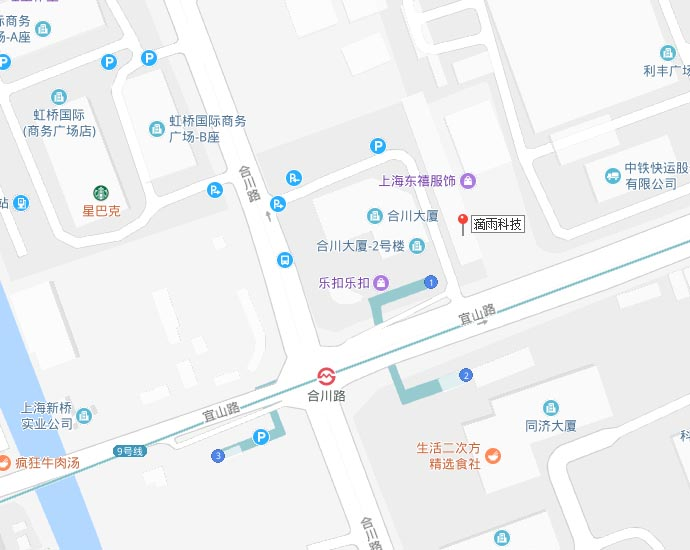
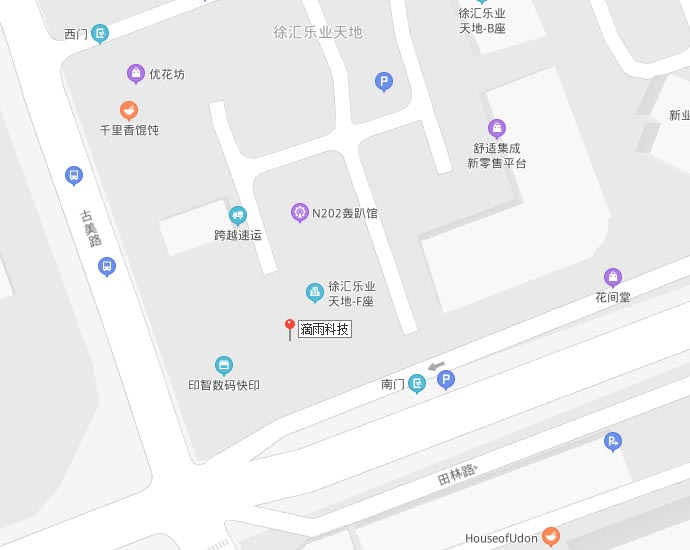
修改地址

diff --git a/contact.html b/contact.html
@@ -45,8 +45,7 @@
 								<ul class="data-list">  
 									<li> <i class="icon icon-weixin"></i> <br>
 									<img src="content-images/astronee.jpg"/></li>
-									<li><i class="icon icon-trh-member-home"></i>Room 405，Building 2， No 2016, Yisan Road，Caohejin，Shanghai</li>
-								<!--	<li><i class="icon icon-dizhi"></i>86-15990171789 86-13651871434</li>-->
+									<li><i class="icon icon-trh-member-home"></i>Room 213，Building F，Xuhui LEYE world, Gumei Road Caohejin，Shanghai</li>
 									<li><i class="icon icon-youjian"></i>astronee@microraindrop.com walter@microraindrop.com</li>
 								</ul>
 						</div>
